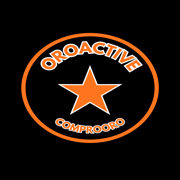
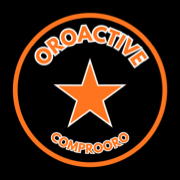
Corregge proporzioni e centratura delle icone OroActive

Changed region(s): [[0.0556, 0.0556, 0.9444, 0.9444]]

diff --git a/scripts/build-brand-icons.swift b/scripts/build-brand-icons.swift
@@ -1,0 +1,72 @@
+// Build resources from the unchanged brand master; never stretch the portrait canvas.
+// Run from the repository root: swift scripts/build-brand-icons.swift
+import Foundation
+import CoreGraphics
+import ImageIO
+import UniformTypeIdentifiers
+
+let root = URL(fileURLWithPath: FileManager.default.currentDirectoryPath, isDirectory: true)
+let sourceURL = root.appendingPathComponent("oroactive-logo.png")
+guard let source = CGImageSourceCreateWithURL(sourceURL as CFURL, nil),
+      let master = CGImageSourceCreateImageAtIndex(source, 0, nil),
+      let colorSpace = CGColorSpace(name: CGColorSpace.sRGB) else {
+    fatalError("Unable to load the original OroActive logo")
+}
+let bitmapInfo = CGImageAlphaInfo.noneSkipLast.rawValue | CGBitmapInfo.byteOrder32Big.rawValue
+guard let scan = CGContext(data: nil, width: master.width, height: master.height,
+    bitsPerComponent: 8, bytesPerRow: master.width * 4, space: colorSpace, bitmapInfo: bitmapInfo) else {
+    fatalError("Unable to inspect logo bounds")
+}
+scan.draw(master, in: CGRect(x: 0, y: 0, width: master.width, height: master.height))
+let bytes = scan.data!.assumingMemoryBound(to: UInt8.self)
+var left = master.width, bottom = master.height, right = -1, top = -1
+for y in 0..<master.height {
+    for x in 0..<master.width {
+        let i = (y * master.width + x) * 4
+        if max(bytes[i], max(bytes[i + 1], bytes[i + 2])) > 80 {
+            left = min(left, x); right = max(right, x)
+            bottom = min(bottom, y); top = max(top, y)
+        }
+    }
+}
+let markWidth = right - left + 1, markHeight = top - bottom + 1
+guard markWidth > 0, abs(markWidth - markHeight) <= 2 else {
+    fatalError("The master mark is not circular: refusing to distort it")
+}
+let centerX = CGFloat(left + right + 1) / 2
+// Bitmap rows start at the top; CGContext drawing coordinates start at the bottom.
+let centerY = CGFloat(master.height) - CGFloat(bottom + top + 1) / 2
+let markSide = CGFloat(max(markWidth, markHeight))
+
+// Home icons need safe margins for Apple's rounded mask. The web manifest also
+// declares maskable icons, whose mark must fit in the central 80% safe circle.
+let outputs: [(String, Int, CGFloat)] = [
+    ("icons/apple-touch-icon-180.png", 180, 0.86),
+    ("icons/icon-192.png", 192, 0.78),
+    ("icons/icon-512.png", 512, 0.78),
+    ("ios/OroActiveTrial/Assets.xcassets/AppIcon.appiconset/icon.png", 1024, 0.86),
+    ("ios/OroActiveTrial/Assets.xcassets/OroActiveLogo.imageset/logo.png", 1024, 0.98)
+]
+for (path, size, occupancy) in outputs {
+    guard let canvas = CGContext(data: nil, width: size, height: size, bitsPerComponent: 8,
+        bytesPerRow: size * 4, space: colorSpace, bitmapInfo: bitmapInfo) else {
+        fatalError("Unable to build \(path)")
+    }
+    canvas.setFillColor(CGColor(gray: 0, alpha: 1))
+    canvas.fill(CGRect(x: 0, y: 0, width: size, height: size))
+    canvas.interpolationQuality = .high
+    let scale = CGFloat(size) * occupancy / markSide
+    // The same scale on both axes preserves the circle, star and typography.
+    canvas.translateBy(x: CGFloat(size) / 2 - centerX * scale,
+                       y: CGFloat(size) / 2 - centerY * scale)
+    canvas.scaleBy(x: scale, y: scale)
+    canvas.draw(master, in: CGRect(x: 0, y: 0, width: master.width, height: master.height))
+    let url = root.appendingPathComponent(path)
+    guard let image = canvas.makeImage(),
+          let destination = CGImageDestinationCreateWithURL(url as CFURL, UTType.png.identifier as CFString, 1, nil) else {
+        fatalError("Unable to export \(path)")
+    }
+    CGImageDestinationAddImage(destination, image, nil)
+    guard CGImageDestinationFinalize(destination) else { fatalError("Unable to save \(path)") }
+    print("Built \(path): \(size) × \(size), mark \(Int(occupancy * 100))%")
+}

diff --git a/index.html b/index.html
@@ -10,15 +10,15 @@
   <meta name="mobile-web-app-capable" content="yes">
   <meta name="application-name" content="OroActive">
   <meta name="format-detection" content="telephone=no">
-  <meta name="oroactive-build-id" content="20260908-apple-trial-28">
+  <meta name="oroactive-build-id" content="20260908-logo-layout-29">
   <title>OroActive Gestionale</title>
-  <script src="pwa-boot.js?v=20260908-apple-trial-28"></script>
-  <link rel="manifest" href="manifest.json?v=20260908-apple-trial-28">
-  <link rel="apple-touch-icon" href="icons/apple-touch-icon-180.png">
-  <link rel="icon" type="image/png" sizes="192x192" href="icons/icon-192.png">
-  <link rel="icon" type="image/png" sizes="512x512" href="icons/icon-512.png">
-  <link rel="stylesheet" href="styles.css?v=20260908-apple-trial-28">
-  <script src="frontend-config.js?v=20260908-apple-trial-28"></script>
+  <script src="pwa-boot.js?v=20260908-logo-layout-29"></script>
+  <link rel="manifest" href="manifest.json?v=20260908-logo-layout-29">
+  <link rel="apple-touch-icon" href="icons/apple-touch-icon-180.png?v=20260908-logo-layout-29">
+  <link rel="icon" type="image/png" sizes="192x192" href="icons/icon-192.png?v=20260908-logo-layout-29">
+  <link rel="icon" type="image/png" sizes="512x512" href="icons/icon-512.png?v=20260908-logo-layout-29">
+  <link rel="stylesheet" href="styles.css?v=20260908-logo-layout-29">
+  <script src="frontend-config.js?v=20260908-logo-layout-29"></script>
 </head>
 <body>
   <section class="login-screen" id="loginScreen" aria-label="Login OroActive">
@@ -1940,7 +1940,7 @@
   </div>
   <datalist id="citySuggestions"></datalist>
   <datalist id="provinceSuggestions"></datalist>
-  <script src="shared/aurum-policy.js?v=20260908-apple-trial-28"></script>
-  <script src="app.js?v=20260908-apple-trial-28"></script>
+  <script src="shared/aurum-policy.js?v=20260908-logo-layout-29"></script>
+  <script src="app.js?v=20260908-logo-layout-29"></script>
 </body>
 </html>

diff --git a/ios/OroActiveTrial/Shared/OroActiveWidgetViews.swift b/ios/OroActiveTrial/Shared/OroActiveWidgetViews.swift
@@ -22,6 +22,12 @@ enum OroActiveWidgetPalette {
         colors: [Color(red: 0.13, green: 0.10, blue: 0.07), Color(red: 0.025, green: 0.025, blue: 0.03)],
         startPoint: .topLeading, endPoint: .bottomTrailing
     )
+
+    static func inset(for style: OroActivePreviewStyle) -> CGFloat { style == .icon ? 8 : 14 }
+
+    @ViewBuilder static func backdrop(for style: OroActivePreviewStyle) -> some View {
+        if style == .icon { Color.black } else { background }
+    }
 }
 
 /// The app and WidgetKit use exactly the same content and destination links.
@@ -39,9 +45,9 @@ struct OroActiveWidgetPreviewView: View {
                 OroActiveWidgetContent(style: style, quote: quote)
             }
         }
-            .padding(14)
+            .padding(OroActiveWidgetPalette.inset(for: style))
             .frame(maxWidth: .infinity, maxHeight: .infinity)
-            .background(OroActiveWidgetPalette.background)
+            .background { OroActiveWidgetPalette.backdrop(for: style) }
             .clipShape(RoundedRectangle(cornerRadius: 26))
             .overlay {
                 RoundedRectangle(cornerRadius: 26)
@@ -62,7 +68,7 @@ struct OroActiveWidgetContent: View {
                 .resizable()
                 .widgetAccentedRenderingMode(.fullColor)
                 .scaledToFit()
-                .padding(6)
+                .aspectRatio(1, contentMode: .fit)
                 .frame(maxWidth: .infinity, maxHeight: .infinity)
                 .accessibilityLabel("Apri OroActive")
                 .widgetURL(OroActiveAction.home.url)

diff --git a/service-worker.js b/service-worker.js
@@ -1,4 +1,4 @@
-const BUILD_ID = "20260908-apple-trial-28";
+const BUILD_ID = "20260908-logo-layout-29";
 const SHELL_CACHE_NAME = `oroactive-shell-${BUILD_ID}`;
 const IMAGE_CACHE_NAME = `oroactive-images-${BUILD_ID}`;
 const IMAGE_CACHE_MAX_ENTRIES = 96;
@@ -14,9 +14,9 @@ const SHELL_CORE_ASSETS = [
   "/oroactive-logo.png"
 ];
 const SHELL_OPTIONAL_ASSETS = [
-  "/icons/icon-192.png",
-  "/icons/icon-512.png",
-  "/icons/apple-touch-icon-180.png"
+  `/icons/icon-192.png?v=${BUILD_ID}`,
+  `/icons/icon-512.png?v=${BUILD_ID}`,
+  `/icons/apple-touch-icon-180.png?v=${BUILD_ID}`
 ];
 const NEVER_CACHE_PREFIXES = [
   "/api/",

diff --git a/ios/OroActiveTrial/Widgets/OroActiveWidgets.swift b/ios/OroActiveTrial/Widgets/OroActiveWidgets.swift
@@ -55,8 +55,8 @@ private struct OroActiveWidgetEntryView: View {
 
     var body: some View {
         OroActiveWidgetContent(style: style, quote: entry.quote)
-            .padding(14)
-            .containerBackground(for: .widget) { OroActiveWidgetPalette.background }
+            .padding(OroActiveWidgetPalette.inset(for: style))
+            .containerBackground(for: .widget) { OroActiveWidgetPalette.backdrop(for: style) }
     }
 }
 

diff --git a/app.js b/app.js
@@ -229,7 +229,7 @@ const state = {
 window.__OROACTIVE_DIRTY_STATE__ = false;
 window.__OROACTIVE_VERSION__ = null;
 
-const OROACTIVE_CLIENT_BUILD_ID = "20260908-apple-trial-28";
+const OROACTIVE_CLIENT_BUILD_ID = "20260908-logo-layout-29";
 const EXPECTED_GOLD_COIN_CATALOG_COUNT = 197;
 const COIN_CATALOG_PAGE_SIZE = 24;
 

diff --git a/ios/VERIFICATION.md b/ios/VERIFICATION.md
@@ -1,5 +1,27 @@
 # Verifica della prova Apple — 8 settembre 2026
 
+## Correzione proporzioni icone — versione Apple 0.1.1 (2)
+
+- Difetto riprodotto nei PNG precedenti: il cerchio Apple Touch Icon risultava
+  138 × 110 pixel e quello dell'app Apple 786 × 628; cinque regressioni fallivano.
+- Nuove risorse derivate dal master invariato con scala uniforme: cinque
+  controlli di circolarità, centratura, riempimento e margini ora superati,
+  insieme al controllo delle icone maskable.
+- Suite completa fresca: 502 test passati, exit 0.
+- Compilazioni incrementali Xcode simulatore e dispositivo: exit 0; firma
+  `codesign --verify --deep --strict` superata.
+- Controllo visivo delle anteprime su simulatore iPhone e iPad: marchio circolare
+  completo, ingrandito e centrato. Controllata anche l'icona nella Home iPad.
+- Aggiornamento installato su entrambi i dispositivi fisici senza disinstallare
+  l'app. Bundle ID, gruppi, autenticazione e azioni widget invariati.
+- Release web preparata: `20260908-logo-layout-29`, riferimenti delle icone
+  versionati in HTML, manifest e precache. La distribuzione App Store/TestFlight
+  non fa parte del deploy web.
+
+Il precedente elenco di controlli rimane uno storico della prima installazione;
+le prove autenticate e le funzioni non esercitate continuano a essere indicate
+separatamente, senza dichiarare una garanzia assoluta su tutta l'app.
+
 ## Confermato
 
 - Suite web completa: 496 test passati, nessun errore, inclusa la regressione

diff --git a/ios/README.md b/ios/README.md
@@ -61,3 +61,19 @@ separati: questo progetto non implica una pubblicazione su App Store.
 
 La presenza del progetto non equivale a installazione o verifica già completata:
 lo stato effettivo di build, firma e prove viene riportato alla consegna.
+
+## Risorse del marchio
+
+Il master `../oroactive-logo.png` è rettangolare e non deve mai essere forzato
+direttamente a un quadrato. Dalla radice del repository eseguire
+`swift scripts/build-brand-icons.swift`: ricostruisce le icone Apple/PWA e la
+risorsa del widget usando una sola scala sui due assi e centrando il marchio.
+Il sorgente originale non viene modificato. I test `brand-icon-layout` misurano
+i pixel prodotti: cerchio, centratura, riempimento e margini di sicurezza.
+
+App e Apple Touch Icon riservano il 14% complessivo ai margini; le icone web
+maskable contengono il marchio nel cerchio centrale sicuro. Il widget applica
+un solo margine esterno, uguale nelle anteprime e nella Home.
+La Home di una PWA già installata può conservare la precedente icona fino a
+quando iOS aggiorna il collegamento: non eliminare automaticamente installazioni
+o dati dell'utente per aggiornare un'icona.
